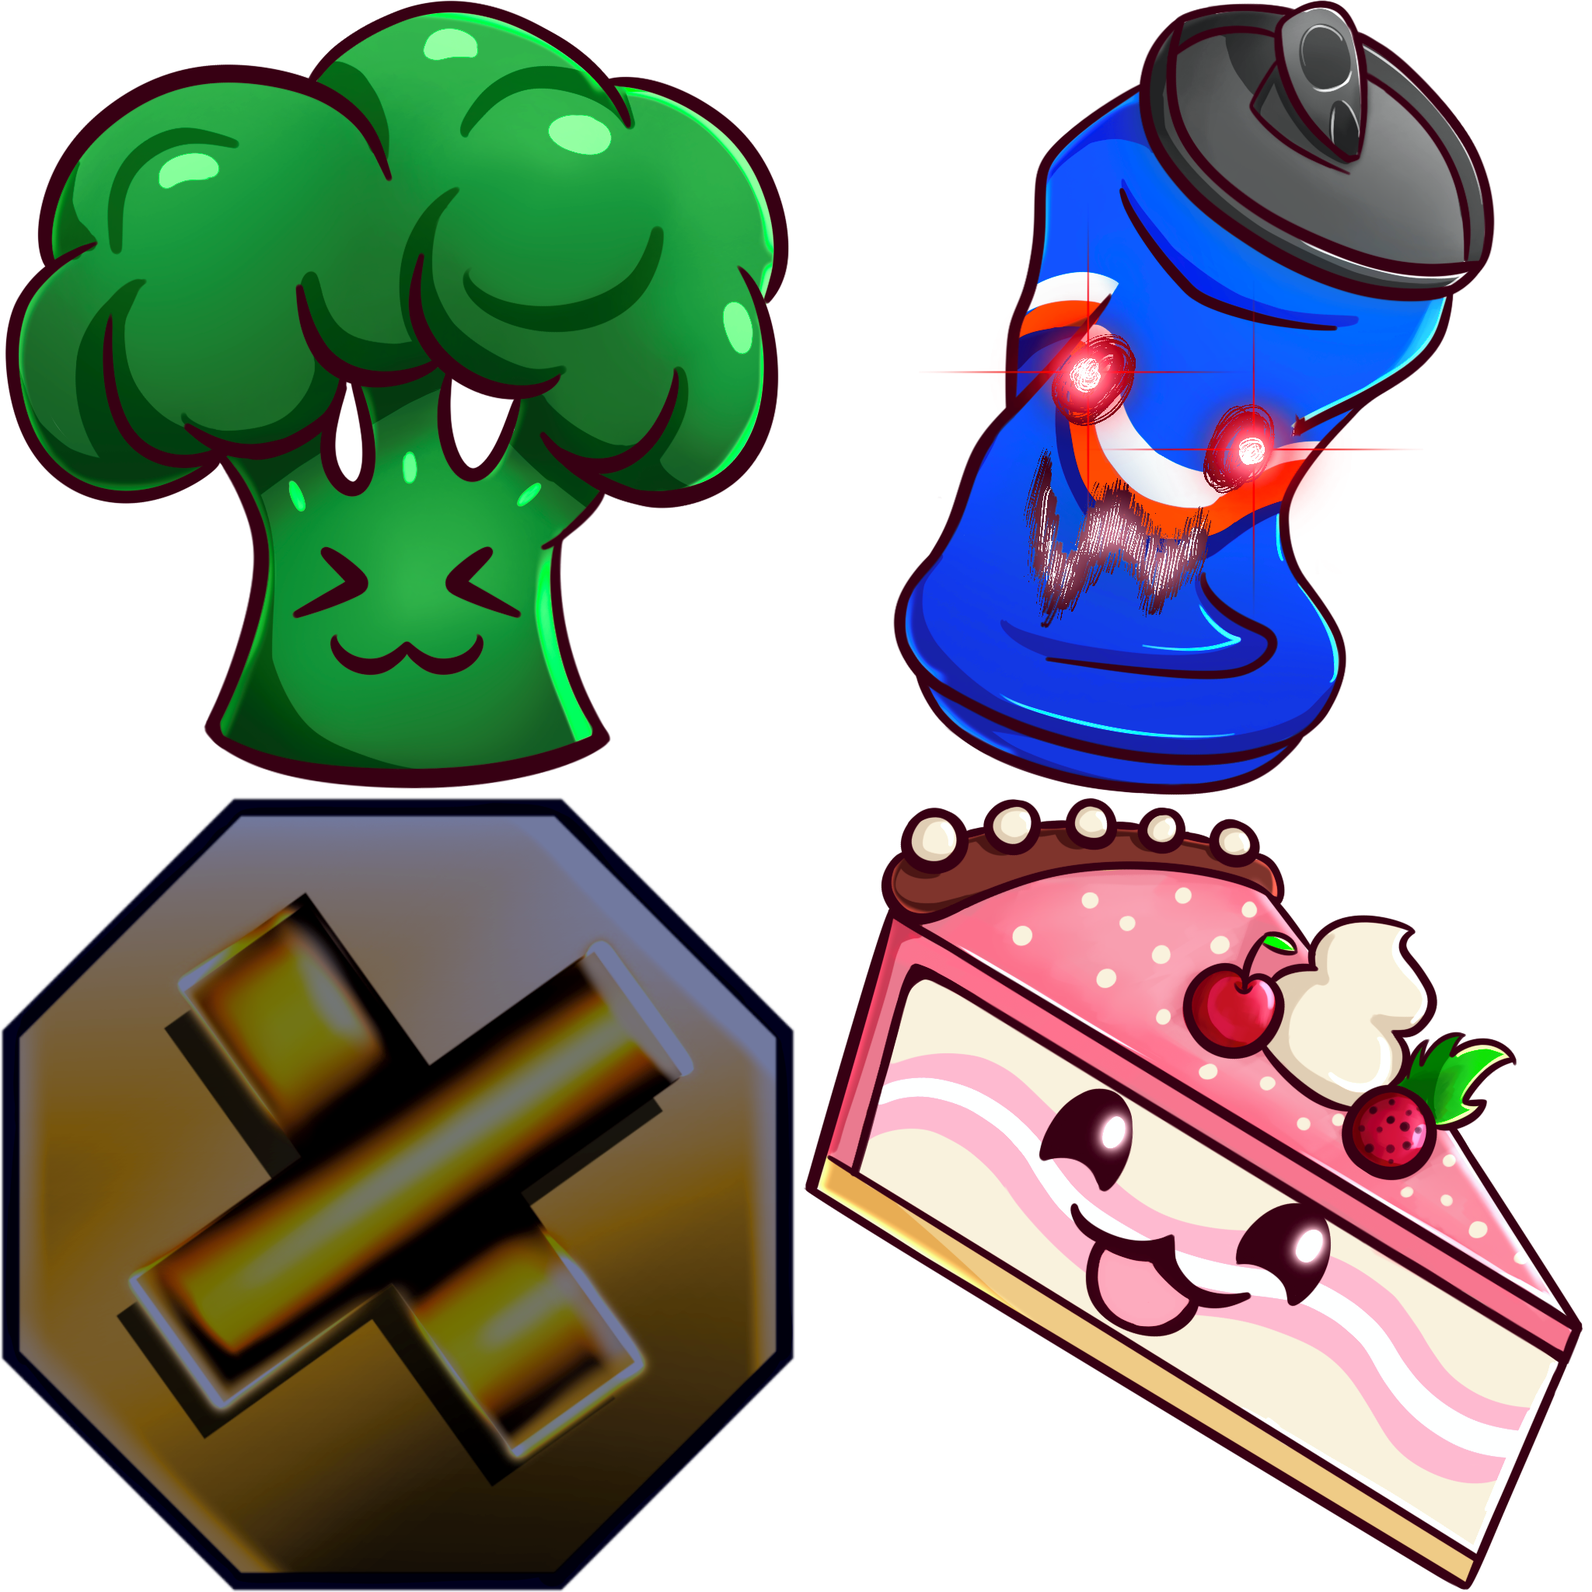
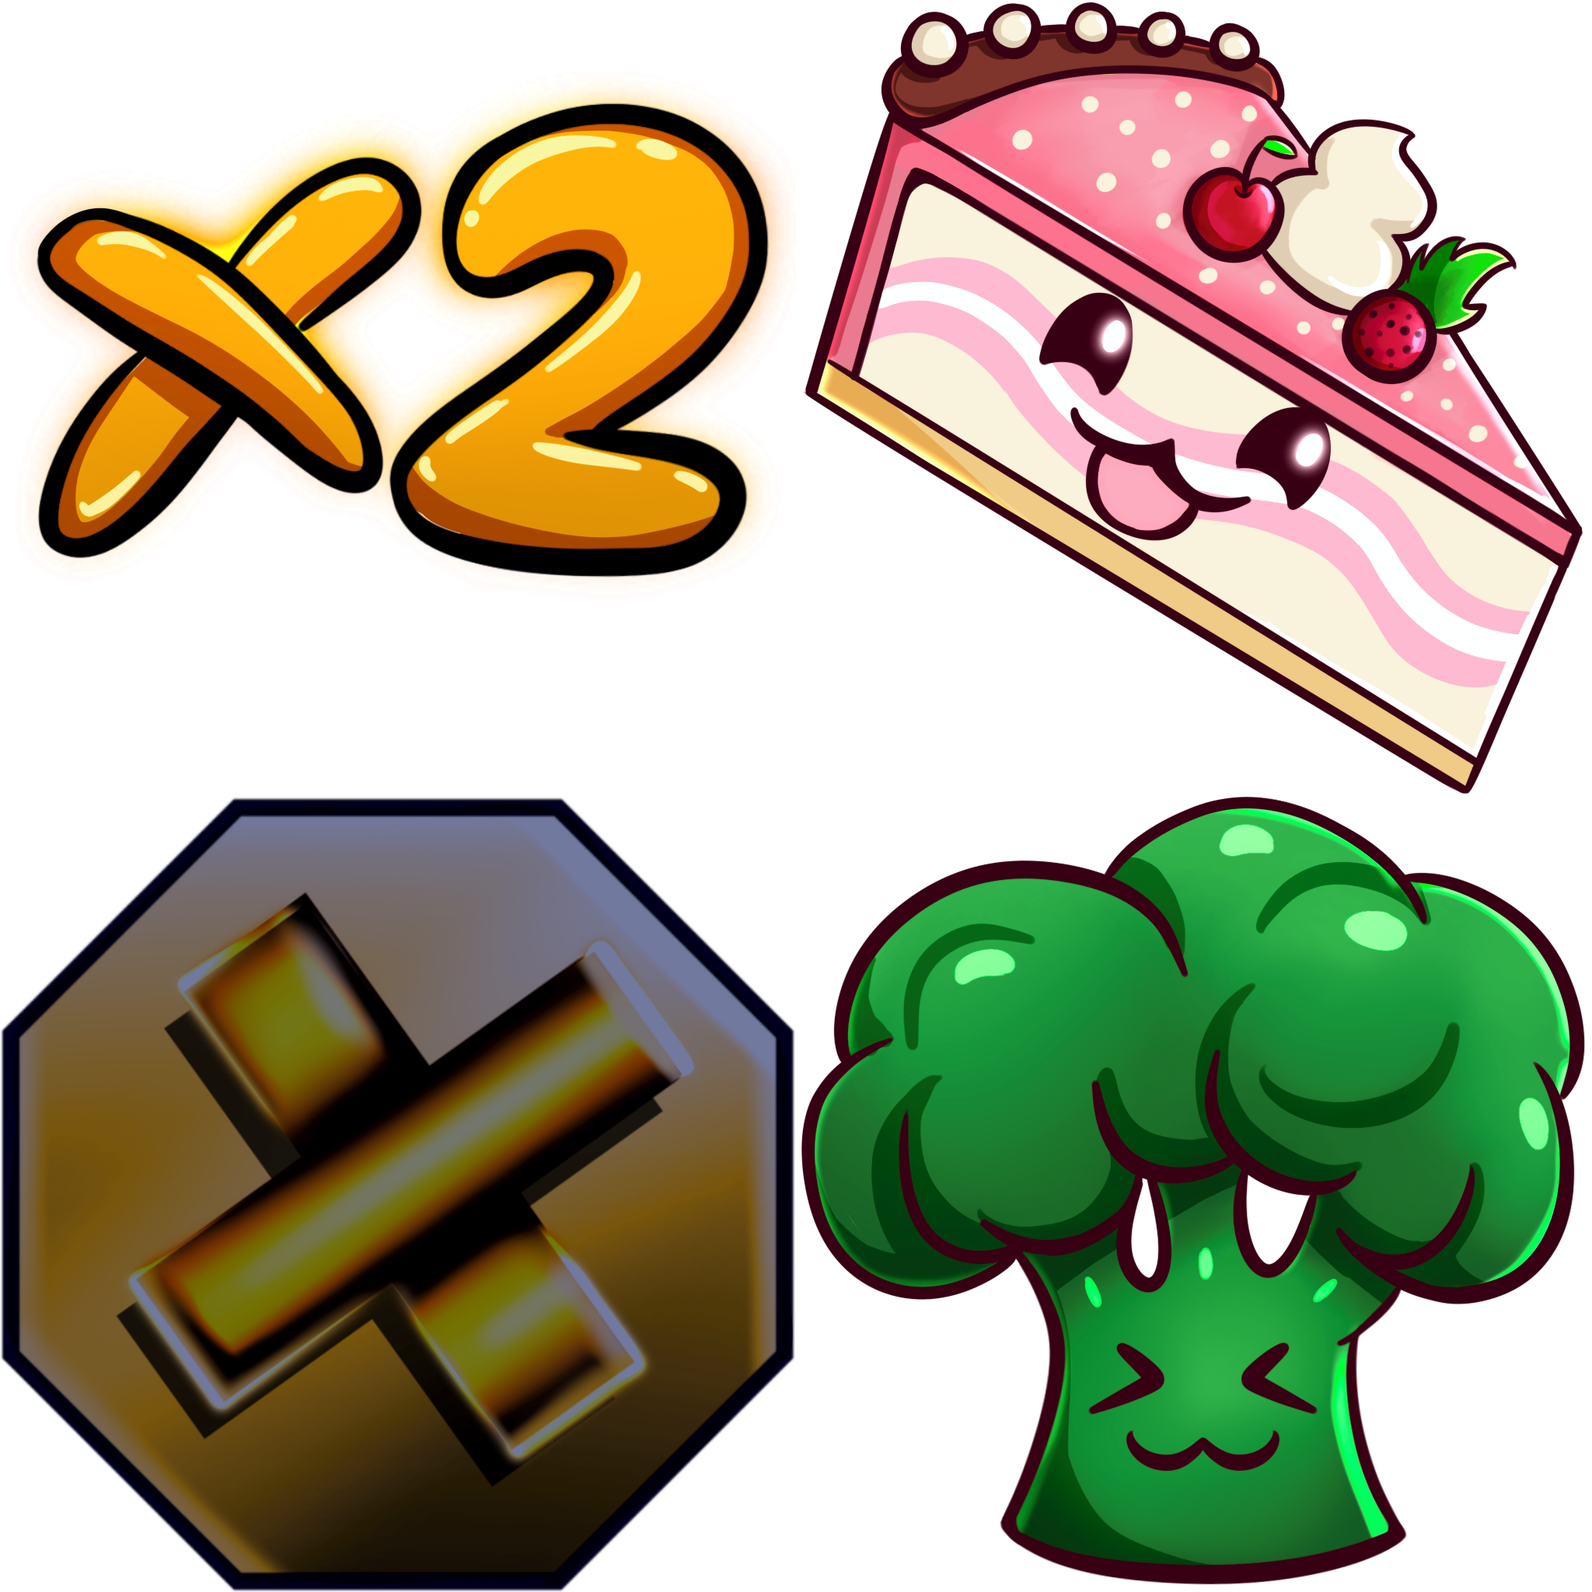
Ajustes imagenes, fondo, ajustes habilidades

diff --git a/core/src/main/java/puppy/code/GameScreen.java b/core/src/main/java/puppy/code/GameScreen.java
@@ -22,18 +22,17 @@ public class GameScreen implements Screen, InputProcessor {
     private SpriteBatch batch;
     private BitmapFont font;
     private Tarro tarro;
-    private Entorno entorno;
+    private ProcesoJuego entorno;
     private Sound hurtSound;
     private Sound dropSound;
     private Music rainMusic;
     private Texture backgroundTexture;
     private Texture bannerTexture;
-    private TextureRegion difficultyIcon, healingIcon;
+    private TextureRegion difficultyIcon, healingIcon, boostedIcon, shieldedIcon;
     private TextureRegion healIcon, healIconDeactivated, dashIcon,dashIconDeactivated, shieldIcon,shieldIconDeactivated, boostIcon, boostIconDeactivated;
     private Map<Integer, Long> cooldowns = new HashMap<>();
     private boolean[] mostrarIcon = new boolean[4];
     private long[] tiempoInicioIcon = new long[4];
-    private static final long DURACION_ICONO = 1000;
     private static final long DURACION_ICONO_DIFICULTAD = 1750;
     
     public GameScreen(final GameLluviaMenu game) {
@@ -41,7 +40,7 @@ public class GameScreen implements Screen, InputProcessor {
         this.batch = game.getBatch();
         this.font = game.getFont();
         
-        backgroundTexture = new Texture(Gdx.files.internal("background.jpg"));
+        backgroundTexture = new Texture(Gdx.files.internal("farm background.jpg"));
         bannerTexture = new Texture(Gdx.files.internal("banner.png"));
 
         // Inicializar sonidos
@@ -49,7 +48,7 @@ public class GameScreen implements Screen, InputProcessor {
         // Crear tarro del jugador
         tarro = new Tarro(game.getAtlas().findRegion("basket"), hurtSound);
         // Crear el entorno de juego (elementos como frutas, peligros, etc.)
-        entorno = new Entorno(game.getAtlas(),dropSound, rainMusic);
+        entorno = new JuegoEntorno(game.getAtlas(),dropSound, rainMusic);
         // camera
 	camera = new OrthographicCamera();
         camera.setToOrtho(false, 1920, 1080);
@@ -69,7 +68,7 @@ public class GameScreen implements Screen, InputProcessor {
         
          // Dibujar el fondo antes de otros elementos
         batch.draw(backgroundTexture, 0, 0, 1920, 1080);
-        if (!tarro.estaHerido()) {
+        
             // Actualizar movimiento del tarro
             tarro.actualizarMovimiento();
             // Actualizar el juego usando el método template de ProcesoJuego
@@ -82,20 +81,29 @@ public class GameScreen implements Screen, InputProcessor {
                 dispose();
             }
             if (mostrarIcon[0]) {
-               if(!drawIconDuration(batch, difficultyIcon, tiempoInicioIcon[0], DURACION_ICONO_DIFICULTAD, 1920 / 2, 1080 / 2, 2.5f)){
+               if(!drawIconDuration(batch, difficultyIcon, tiempoInicioIcon[0], DURACION_ICONO_DIFICULTAD, (1920 / 2) + 850, (1080 / 2) + 250, 4.5f)){
                    mostrarIcon[0] = false;
                }
             }
-        }
+        
         // Manejar entrada de habilidades
         handleInput();
         if (mostrarIcon[1]) {
-            if (!drawIconDuration(batch, healingIcon, tiempoInicioIcon[1], DURACION_ICONO, 1920 / 2, (1080 / 4), 5.0f)) {
-                mostrarIcon[1] = false; // Después de que la duración pase, ponerlo en false
+            if (!drawIconDuration(batch, boostedIcon, tiempoInicioIcon[1], HabilidadBoostPuntaje.obtenerInstancia().getDuration() * 1000, (1920 / 2) - 200, (1080 / 4), 5.0f)) {
+                mostrarIcon[1] = false;
             }
         }
-        //if (mostrarBoostIcon) drawIconWDuration(batch, boostIcon, tiempoInicioBoostIcon, DURACION_ICONO_MS, 1920 / 2 + 100, 1080 / 2);
-        //if (mostrarShieldIcon) drawIconDuration(batch, shieldIcon, tiempoInicioShieldIcon, DURACION_ICONO_MS, 1920 / 2, 1080 / 2 - 100);
+        if (mostrarIcon[2]) {
+            if (!drawIconDuration(batch, healingIcon, tiempoInicioIcon[2], HabilidadCurar.obtenerInstancia().getDuration() * 1000, 1920 / 2, (1080 / 4), 5.0f)) {
+                mostrarIcon[2] = false;
+            }
+        }
+        if (mostrarIcon[3]) {
+            if (!drawIconDuration(batch, shieldedIcon, tiempoInicioIcon[3], HabilidadEscudo.obtenerInstancia().getDuration() * 1000, (1920 / 2) + 200, (1080 / 4), 5.0f)) {
+                mostrarIcon[3] = false;
+            }
+        }
+ 
         // Dibujar el tarro y los elementos
         tarro.dibujar(batch);
         
@@ -129,7 +137,7 @@ public class GameScreen implements Screen, InputProcessor {
         float yPosition = camera.viewportHeight - 155;
         batch.draw(isOnCooldown ? deactivatedIcon : activeIcon, xPosition, yPosition, iconWidth, iconHeight);
     }
-   private boolean drawIconDuration(SpriteBatch batch, TextureRegion icon, long tiempoInicio, long duracion, int xPosition, int yPosition, float scale) {
+   private boolean drawIconDuration(SpriteBatch batch, TextureRegion icon, long tiempoInicio, float duracion, int xPosition, int yPosition, float scale) {
         long tiempoTranscurrido = System.currentTimeMillis() - tiempoInicio;
         if (tiempoTranscurrido < duracion) {
             // Ajustar el tamaño del ícono dependiendo del scaleFactor
@@ -144,37 +152,49 @@ public class GameScreen implements Screen, InputProcessor {
     }
     // Función para manejar entrada de habilidades
     private void handleInput(){
+        long currentTime = System.currentTimeMillis();
         if (Gdx.input.isKeyJustPressed(Input.Keys.Q)) { // Instancia de DASH
+            if (currentTime - cooldowns.getOrDefault(Input.Keys.Q, 0L) >= HabilidadDash.obtenerInstancia().obtenerCooldown() * 1000) {
             tarro.establecerHabilidad(HabilidadDash.obtenerInstancia());
-            cooldowns.put(Input.Keys.Q, System.currentTimeMillis()); 
+            cooldowns.put(Input.Keys.Q, currentTime); 
             if (Gdx.input.isKeyPressed(Input.Keys.LEFT)) {
                 ((HabilidadDash) tarro.getHabilidadActual()).setDashDirection(-1);
             } else if (Gdx.input.isKeyPressed(Input.Keys.RIGHT)) {
                 ((HabilidadDash) tarro.getHabilidadActual()).setDashDirection(1);
             }
             tarro.getHabilidadActual().usarHabilidad(tarro);
+            }
         }
 
         if (Gdx.input.isKeyJustPressed(Input.Keys.W)) { // Instancia de BOOST
+            if (currentTime - cooldowns.getOrDefault(Input.Keys.W, 0L) >= HabilidadBoostPuntaje.obtenerInstancia().obtenerCooldown() * 1000) {
             tarro.establecerHabilidad(HabilidadBoostPuntaje.obtenerInstancia());
             tarro.usarHabilidad();
-            cooldowns.put(Input.Keys.W, System.currentTimeMillis());
+            cooldowns.put(Input.Keys.W, currentTime);
+            mostrarIcon[1] = true;
+            tiempoInicioIcon[1] = currentTime;
+            }
         }
         if (Gdx.input.isKeyJustPressed(Input.Keys.E)) { // Instancia de HEAL
+            if (currentTime - cooldowns.getOrDefault(Input.Keys.E, 0L) >= HabilidadCurar.obtenerInstancia().obtenerCooldown() * 1000) {
             tarro.establecerHabilidad(HabilidadCurar.obtenerInstancia());
             tarro.usarHabilidad();
-            cooldowns.put(Input.Keys.E, System.currentTimeMillis());
-            
-            // Activar la visualización del ícono de curación
-            mostrarIcon[1] = true;
-            tiempoInicioIcon[1] = System.currentTimeMillis();
+            cooldowns.put(Input.Keys.E, currentTime);
+            mostrarIcon[2] = true;
+            tiempoInicioIcon[2] = currentTime;
+            }
         }
         if (Gdx.input.isKeyJustPressed(Input.Keys.R)) { // Instancia de SHIELD
+            if (currentTime - cooldowns.getOrDefault(Input.Keys.R, 0L) >= HabilidadEscudo.obtenerInstancia().obtenerCooldown() * 1000) {
             tarro.establecerHabilidad(HabilidadEscudo.obtenerInstancia());
             tarro.usarHabilidad();
-            cooldowns.put(Input.Keys.R, System.currentTimeMillis());
+            cooldowns.put(Input.Keys.R, currentTime);
+            mostrarIcon[3] = true;
+            tiempoInicioIcon[3] = currentTime;
+            }
         }
     }
+     
     @Override
     public void resize(int width, int height) {
         camera.setToOrtho(false, width, height);
@@ -206,10 +226,10 @@ public class GameScreen implements Screen, InputProcessor {
     }
     private void dibujarTexto(){
         // Mostrar teclas de habilidades
-        font.draw(batch, "Q", 865, camera.viewportHeight - 160);
-        font.draw(batch, "W", 1030, camera.viewportHeight - 160);
-        font.draw(batch, "E", 1195, camera.viewportHeight - 160);
-        font.draw(batch, "R", 1365, camera.viewportHeight - 160);
+        font.draw(batch, "Q", 865, camera.viewportHeight - 120);
+        font.draw(batch, "W", 1030, camera.viewportHeight - 120);
+        font.draw(batch, "E", 1200, camera.viewportHeight - 120);
+        font.draw(batch, "R", 1365, camera.viewportHeight - 120);
         
         // Dibujar la puntuación y vidas
         font.draw(batch, "" + tarro.getPuntos(), 200, camera.viewportHeight - 37);
@@ -226,6 +246,8 @@ public class GameScreen implements Screen, InputProcessor {
         rainMusic = Gdx.audio.newMusic(Gdx.files.internal("rain.MP3"));
         difficultyIcon = game.getAtlas().findRegion("difficulty icon");
         healingIcon = game.getAtlas().findRegion("healing icon");
+        shieldedIcon = game.getAtlas().findRegion("shielded icon");
+        boostedIcon = game.getAtlas().findRegion("boosted icon");
         healIcon = game.getAtlas().findRegion("heal icon");
         healIconDeactivated = game.getAtlas().findRegion("health icon deactivated");
         dashIcon = game.getAtlas().findRegion("dash icon");

diff --git a/core/src/main/java/puppy/code/GameOverScreen.java b/core/src/main/java/puppy/code/GameOverScreen.java
@@ -3,22 +3,38 @@ package puppy.code;
 import com.badlogic.gdx.Gdx;
 import com.badlogic.gdx.Screen;
 import com.badlogic.gdx.graphics.OrthographicCamera;
+import com.badlogic.gdx.InputProcessor;
+import com.badlogic.gdx.graphics.Texture;
 import com.badlogic.gdx.graphics.g2d.BitmapFont;
 import com.badlogic.gdx.graphics.g2d.SpriteBatch;
 import com.badlogic.gdx.utils.ScreenUtils;
 
-public class GameOverScreen implements Screen {
+public class GameOverScreen implements Screen, InputProcessor {
 	private final GameLluviaMenu game;
 	private SpriteBatch batch;	   
 	private BitmapFont font;
 	private OrthographicCamera camera;
-
+        private Texture exitButtonTexture;
+        private Texture gameOverScreenTexture; 
+        
+        private float exitButtonX, exitButtonY, exitButtonWidth, exitButtonHeight;
+         
 	public GameOverScreen(final GameLluviaMenu game) {
 		this.game = game;
-        this.batch = game.getBatch();
-        this.font = game.getFont();
+                this.batch = game.getBatch();
+                this.font = game.getFont();
 		camera = new OrthographicCamera();
 		camera.setToOrtho(false, 1920, 1080);
+                
+                gameOverScreenTexture = new Texture(Gdx.files.internal("game over screen.jpg"));
+                exitButtonTexture = new Texture(Gdx.files.internal("quit button.png"));
+                
+                // Posicionar botones en el centro de la pantalla
+                exitButtonWidth = 600;
+                exitButtonHeight = 300;
+                exitButtonX = (1920 - exitButtonWidth) + 120;
+                exitButtonY = (exitButtonHeight) - 290;
+                 Gdx.input.setInputProcessor(this); // Activar InputProcessor
 	}
 
 	@Override
@@ -28,15 +44,27 @@ public class GameOverScreen implements Screen {
 		batch.setProjectionMatrix(camera.combined);
 
 		batch.begin();
-		font.draw(batch, "GAME OVER ", 100, 200);
-		font.draw(batch, "Toca en cualquier lado para reiniciar.", 100, 100);
+                
+                batch.draw(gameOverScreenTexture, 0, 0, 1920, 1080);
+                batch.draw(exitButtonTexture, exitButtonX, exitButtonY, exitButtonWidth, exitButtonHeight);
 		batch.end();
 
-		if (Gdx.input.isTouched()) {
-			game.setScreen(new GameScreen(game));
-			dispose();
-		}
 	}
+        public boolean touchUp(int screenX, int screenY, int pointer, int button) {
+                float touchX = screenX;
+                float touchY = 1080 - screenY; // Ajustar porque las coordenadas están invertidas
+
+                if (touchX >= exitButtonX && touchX <= exitButtonX + exitButtonWidth &&
+                        touchY >= exitButtonY && touchY <= exitButtonY + exitButtonHeight) {
+                        Gdx.app.exit();  // Cerrar el juego
+    
+                }else{
+                    Gdx.input.setInputProcessor(null);  // Desactiva el InputProcessor
+                    game.setScreen(new GameScreen(game));
+                    dispose();  // Liberar recursos del menú
+                }
+            return true;
+       }
 
 	@Override
 	public void show() {
@@ -64,14 +92,24 @@ public class GameOverScreen implements Screen {
 
 	@Override
 	public void hide() {
-		// TODO Auto-generated method stub
-		
+            Gdx.input.setInputProcessor(null);  // Desactiva el InputProcessor cuando se oculta
+            dispose();  // Libera recursos del menu	
 	}
 
 	@Override
 	public void dispose() {
-		// TODO Auto-generated method stub
+            gameOverScreenTexture.dispose();
+            exitButtonTexture.dispose();
 		
 	}
+        // Métodos no utilizados de InputProcessor
+        @Override public boolean keyDown(int keycode) { return false; }
+        @Override public boolean keyUp(int keycode) { return false; }
+        @Override public boolean keyTyped(char character) { return false; }
+        @Override public boolean touchDown(int screenX, int screenY, int pointer, int button) { return false; }
+        @Override public boolean touchDragged(int screenX, int screenY, int pointer) { return false; }
+        @Override public boolean mouseMoved(int screenX, int screenY) { return false; }
+        @Override public boolean scrolled(float amountX, float amountY) { return false; }
+        @Override public boolean touchCancelled(int screenX, int screenY, int pointer, int button) { return false; }
 
 }

diff --git a/core/src/main/java/puppy/code/HabilidadEscudo.java b/core/src/main/java/puppy/code/HabilidadEscudo.java
@@ -9,7 +9,7 @@ public class HabilidadEscudo implements Habilidad {
     private int cooldown = 30; // Cooldown en segundos
     private String caracteristica = "Bloquea el siguiente daño recibido durante 3 segundos.";
     private long lastUsedTime = 0; // Tiempo de la última utilización
-    private long duration = 3000; // Duración del escudo en milisegundos
+    private float duration = 3.0f; // Duración del escudo en milisegundos
     private boolean isActive = false; // Estado del escudo
 
     // Constructor privado para evitar instanciación externa
@@ -39,13 +39,16 @@ public class HabilidadEscudo implements Habilidad {
 
         // Crear un nuevo hilo para manejar la duración del escudo
         new Thread(() -> {
-            try {
-                Thread.sleep(duration); // Espera el tiempo de duración
-            } catch (InterruptedException e) {
-                e.printStackTrace();
-            }
-            isActive = false; // Desactivar el escudo después de la duración
-            System.out.println("El escudo ha expirado.");
+        try {
+            // Convertir la duración de segundos (float) a milisegundos (long)
+            Thread.sleep((long) (duration * 1000)); 
+        } catch (InterruptedException e) {
+            // Imprimir la traza de la excepción sin detener el juego
+            Thread.currentThread().interrupt(); 
+            System.err.println("El escudo fue interrumpido: " + e.getMessage());
+        }
+        isActive = false; // Desactivar el escudo después de la duración
+        System.out.println("El escudo ha expirado.");
         }).start();
     }
 
@@ -56,6 +59,10 @@ public class HabilidadEscudo implements Habilidad {
     @Override
     public long getLastUsedTime() {
         return lastUsedTime;
+    }
+    @Override
+    public float getDuration() {
+        return duration;
     }
 
     @Override

diff --git a/core/src/main/java/puppy/code/HabilidadCurar.java b/core/src/main/java/puppy/code/HabilidadCurar.java
@@ -6,7 +6,8 @@ public class HabilidadCurar implements Habilidad {
 
     // Atributos de la habilidad
     private String nombre = "Curación";
-    private int cooldown = 5; // Cooldown en segundos
+    private int cooldown = 10; // Cooldown en segundos
+    private float duracion = 5.0f;
     private String caracteristica = "Recupera una cantidad de vida al tarro.";
     private int cantidadCuracion = 20; // Cantidad de vida que se recupera
     private long lastUsedTime = 0; // Tiempo en que se utilizó la habilidad por última vez
@@ -39,6 +40,10 @@ public class HabilidadCurar implements Habilidad {
     @Override
     public long getLastUsedTime() {
         return lastUsedTime;
+    }
+    @Override
+    public float getDuration() {
+        return duracion;
     }
     @Override
     public String obtenerNombre() {

diff --git a/core/src/main/java/puppy/code/JuegoEntorno.java b/core/src/main/java/puppy/code/JuegoEntorno.java
@@ -32,7 +32,7 @@ public class JuegoEntorno extends ProcesoJuego { // clase concreta que define to
     private long limiteTiempoGeneracion = 100_000_000;
     
      // Umbrales de puntuación para aumentar dificultad
-    private int umbralPuntos = 250; // Cada ciertos puntos aumenta dificultad
+    private int umbralPuntos = 275; // Cada ciertos puntos aumenta dificultad
     private int puntosAlcanzados = 0;
     
     // Parámetros de generación dinámica

diff --git a/core/src/main/java/puppy/code/HabilidadBoostPuntaje.java b/core/src/main/java/puppy/code/HabilidadBoostPuntaje.java
@@ -54,6 +54,10 @@ public class HabilidadBoostPuntaje implements Habilidad {
     public long getLastUsedTime() {
         return lastUsedTime;
     }
+    @Override
+    public float getDuration() {
+        return duracion;
+    }
 
     @Override
     public String obtenerNombre() {

diff --git a/core/src/main/java/puppy/code/HabilidadDash.java b/core/src/main/java/puppy/code/HabilidadDash.java
@@ -55,6 +55,10 @@ public class HabilidadDash implements Habilidad {
     public int obtenerCooldown() {
         return cooldown;
     }
+    @Override
+    public float getDuration() {
+        return 0;
+    }
 
     @Override
     public String obtenerCaracteristica() {

diff --git a/core/src/main/java/puppy/code/Habilidad.java b/core/src/main/java/puppy/code/Habilidad.java
@@ -12,6 +12,7 @@ public interface Habilidad {
     void usarHabilidad(Tarro tarro);
     String obtenerNombre();
     int  obtenerCooldown();
+    public float getDuration();
     String obtenerCaracteristica();
     long getLastUsedTime();
 }
